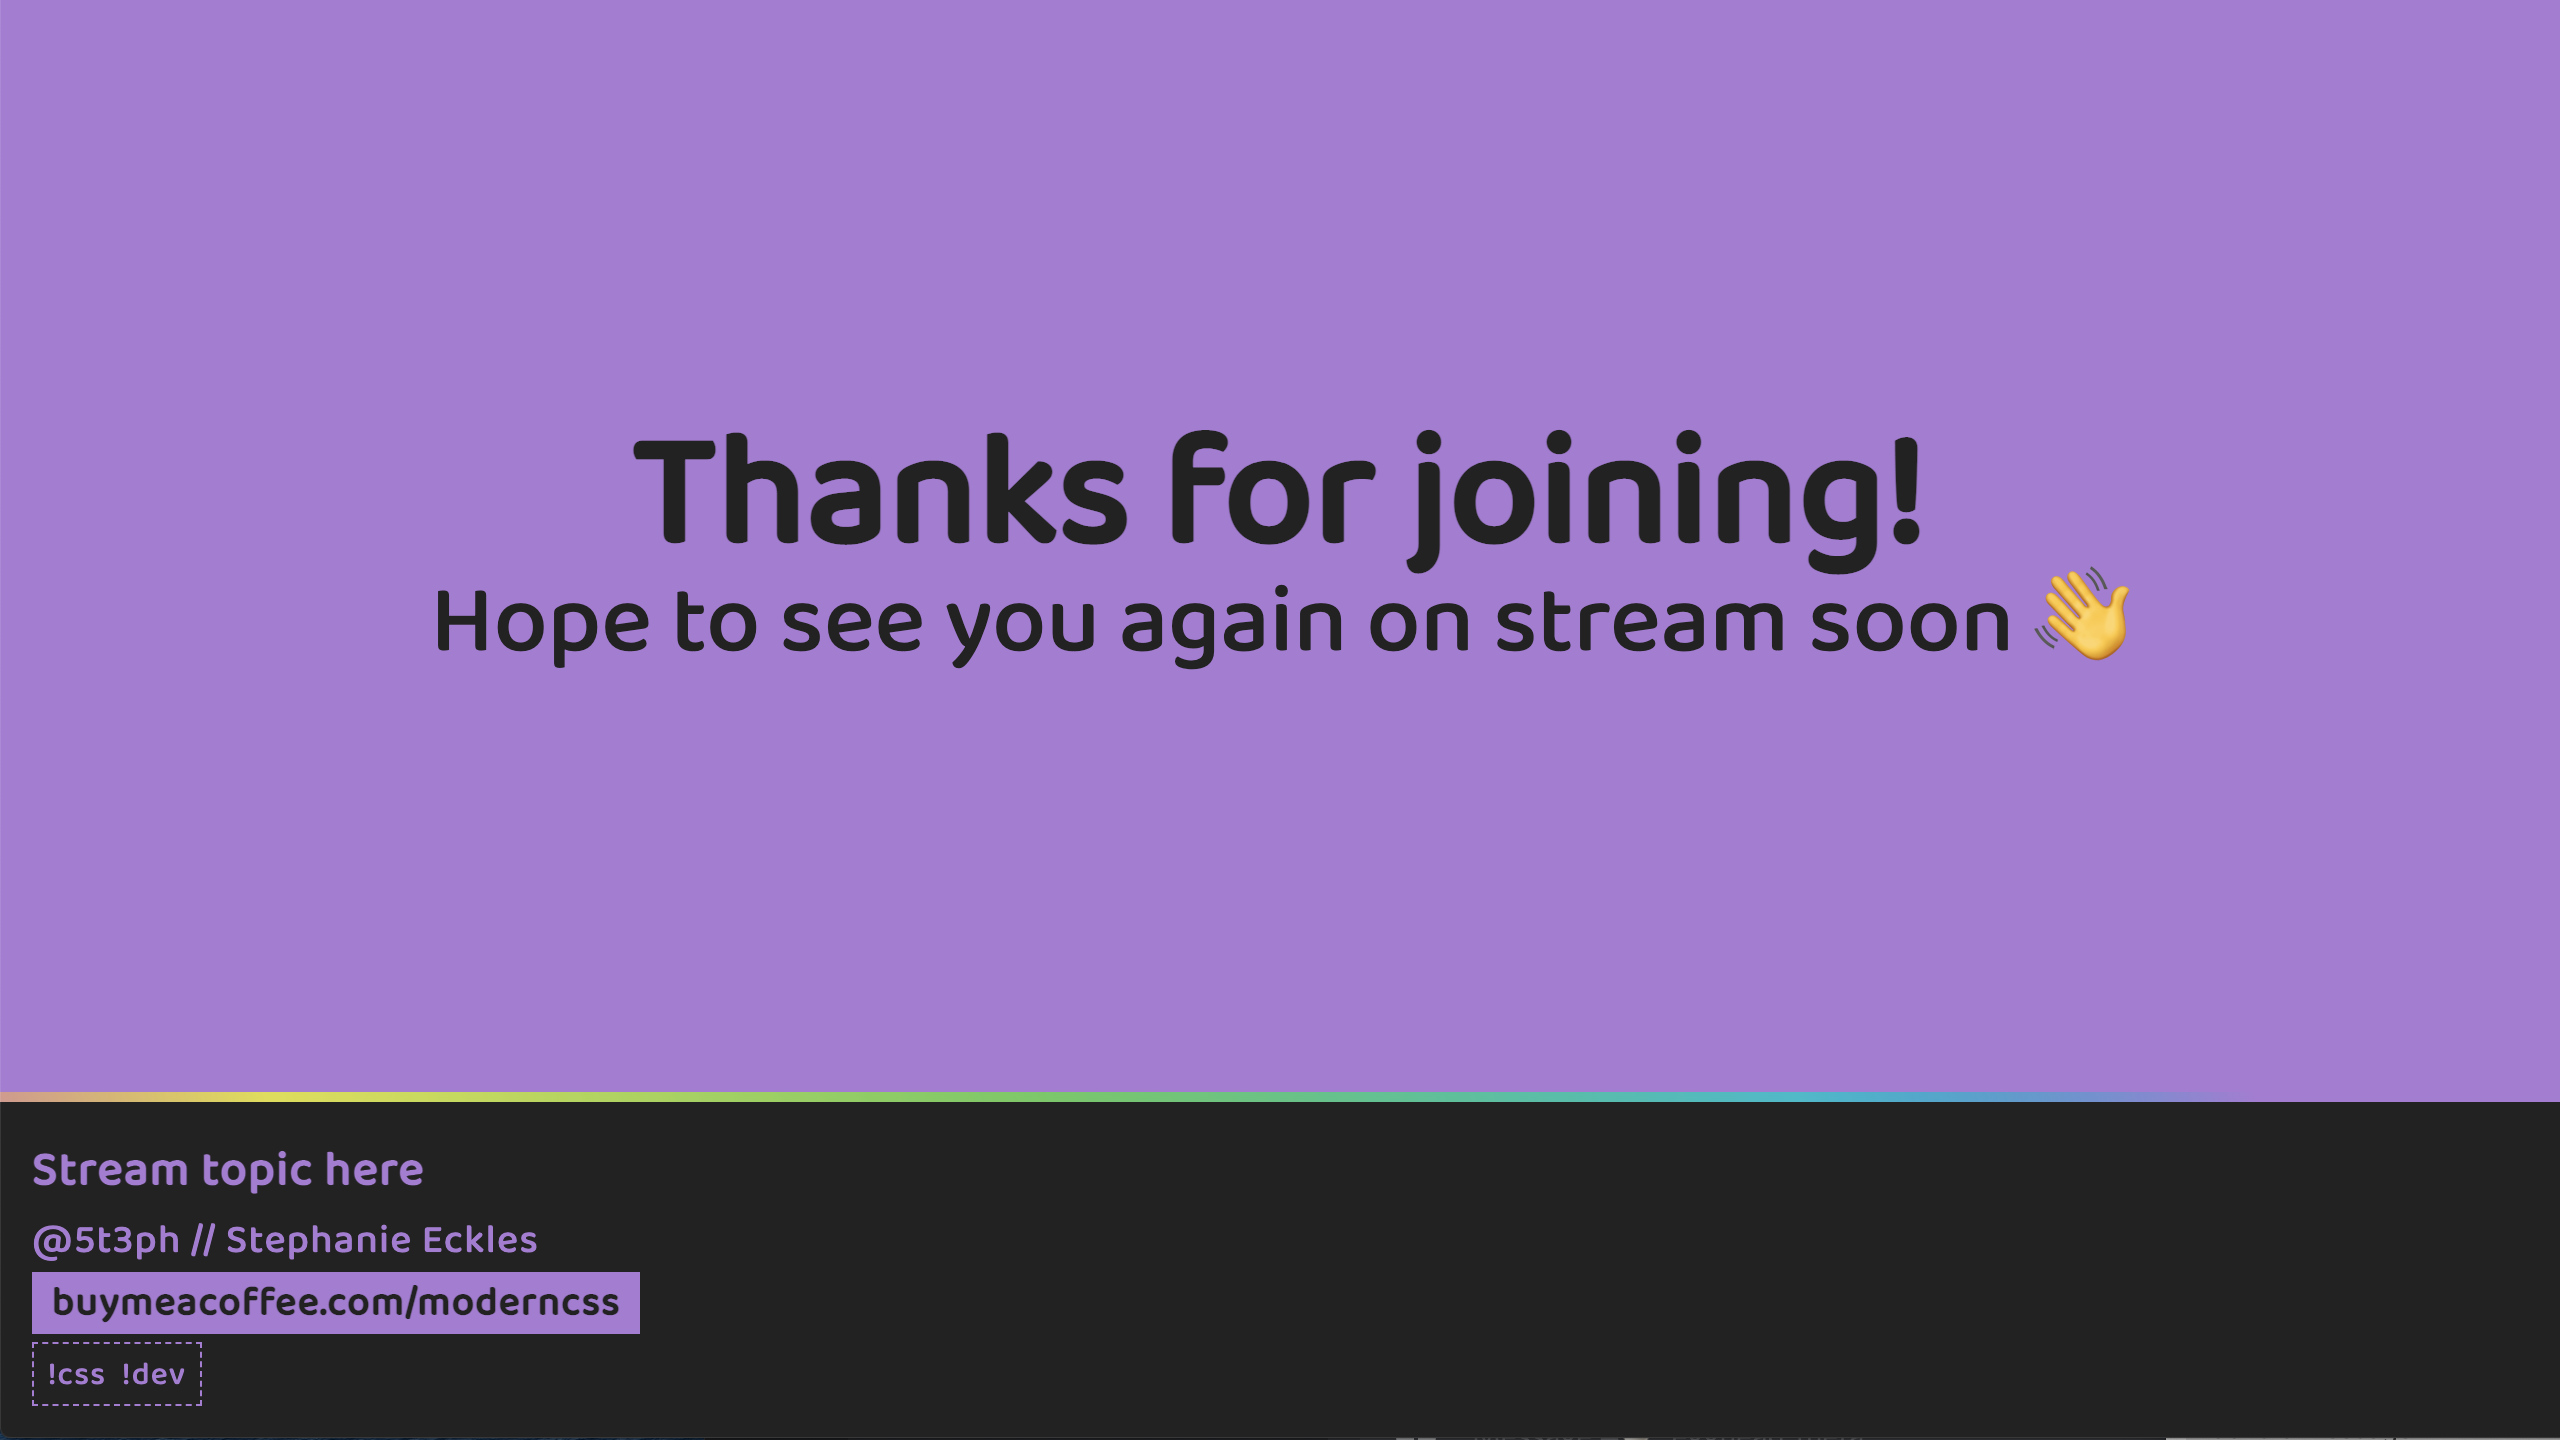
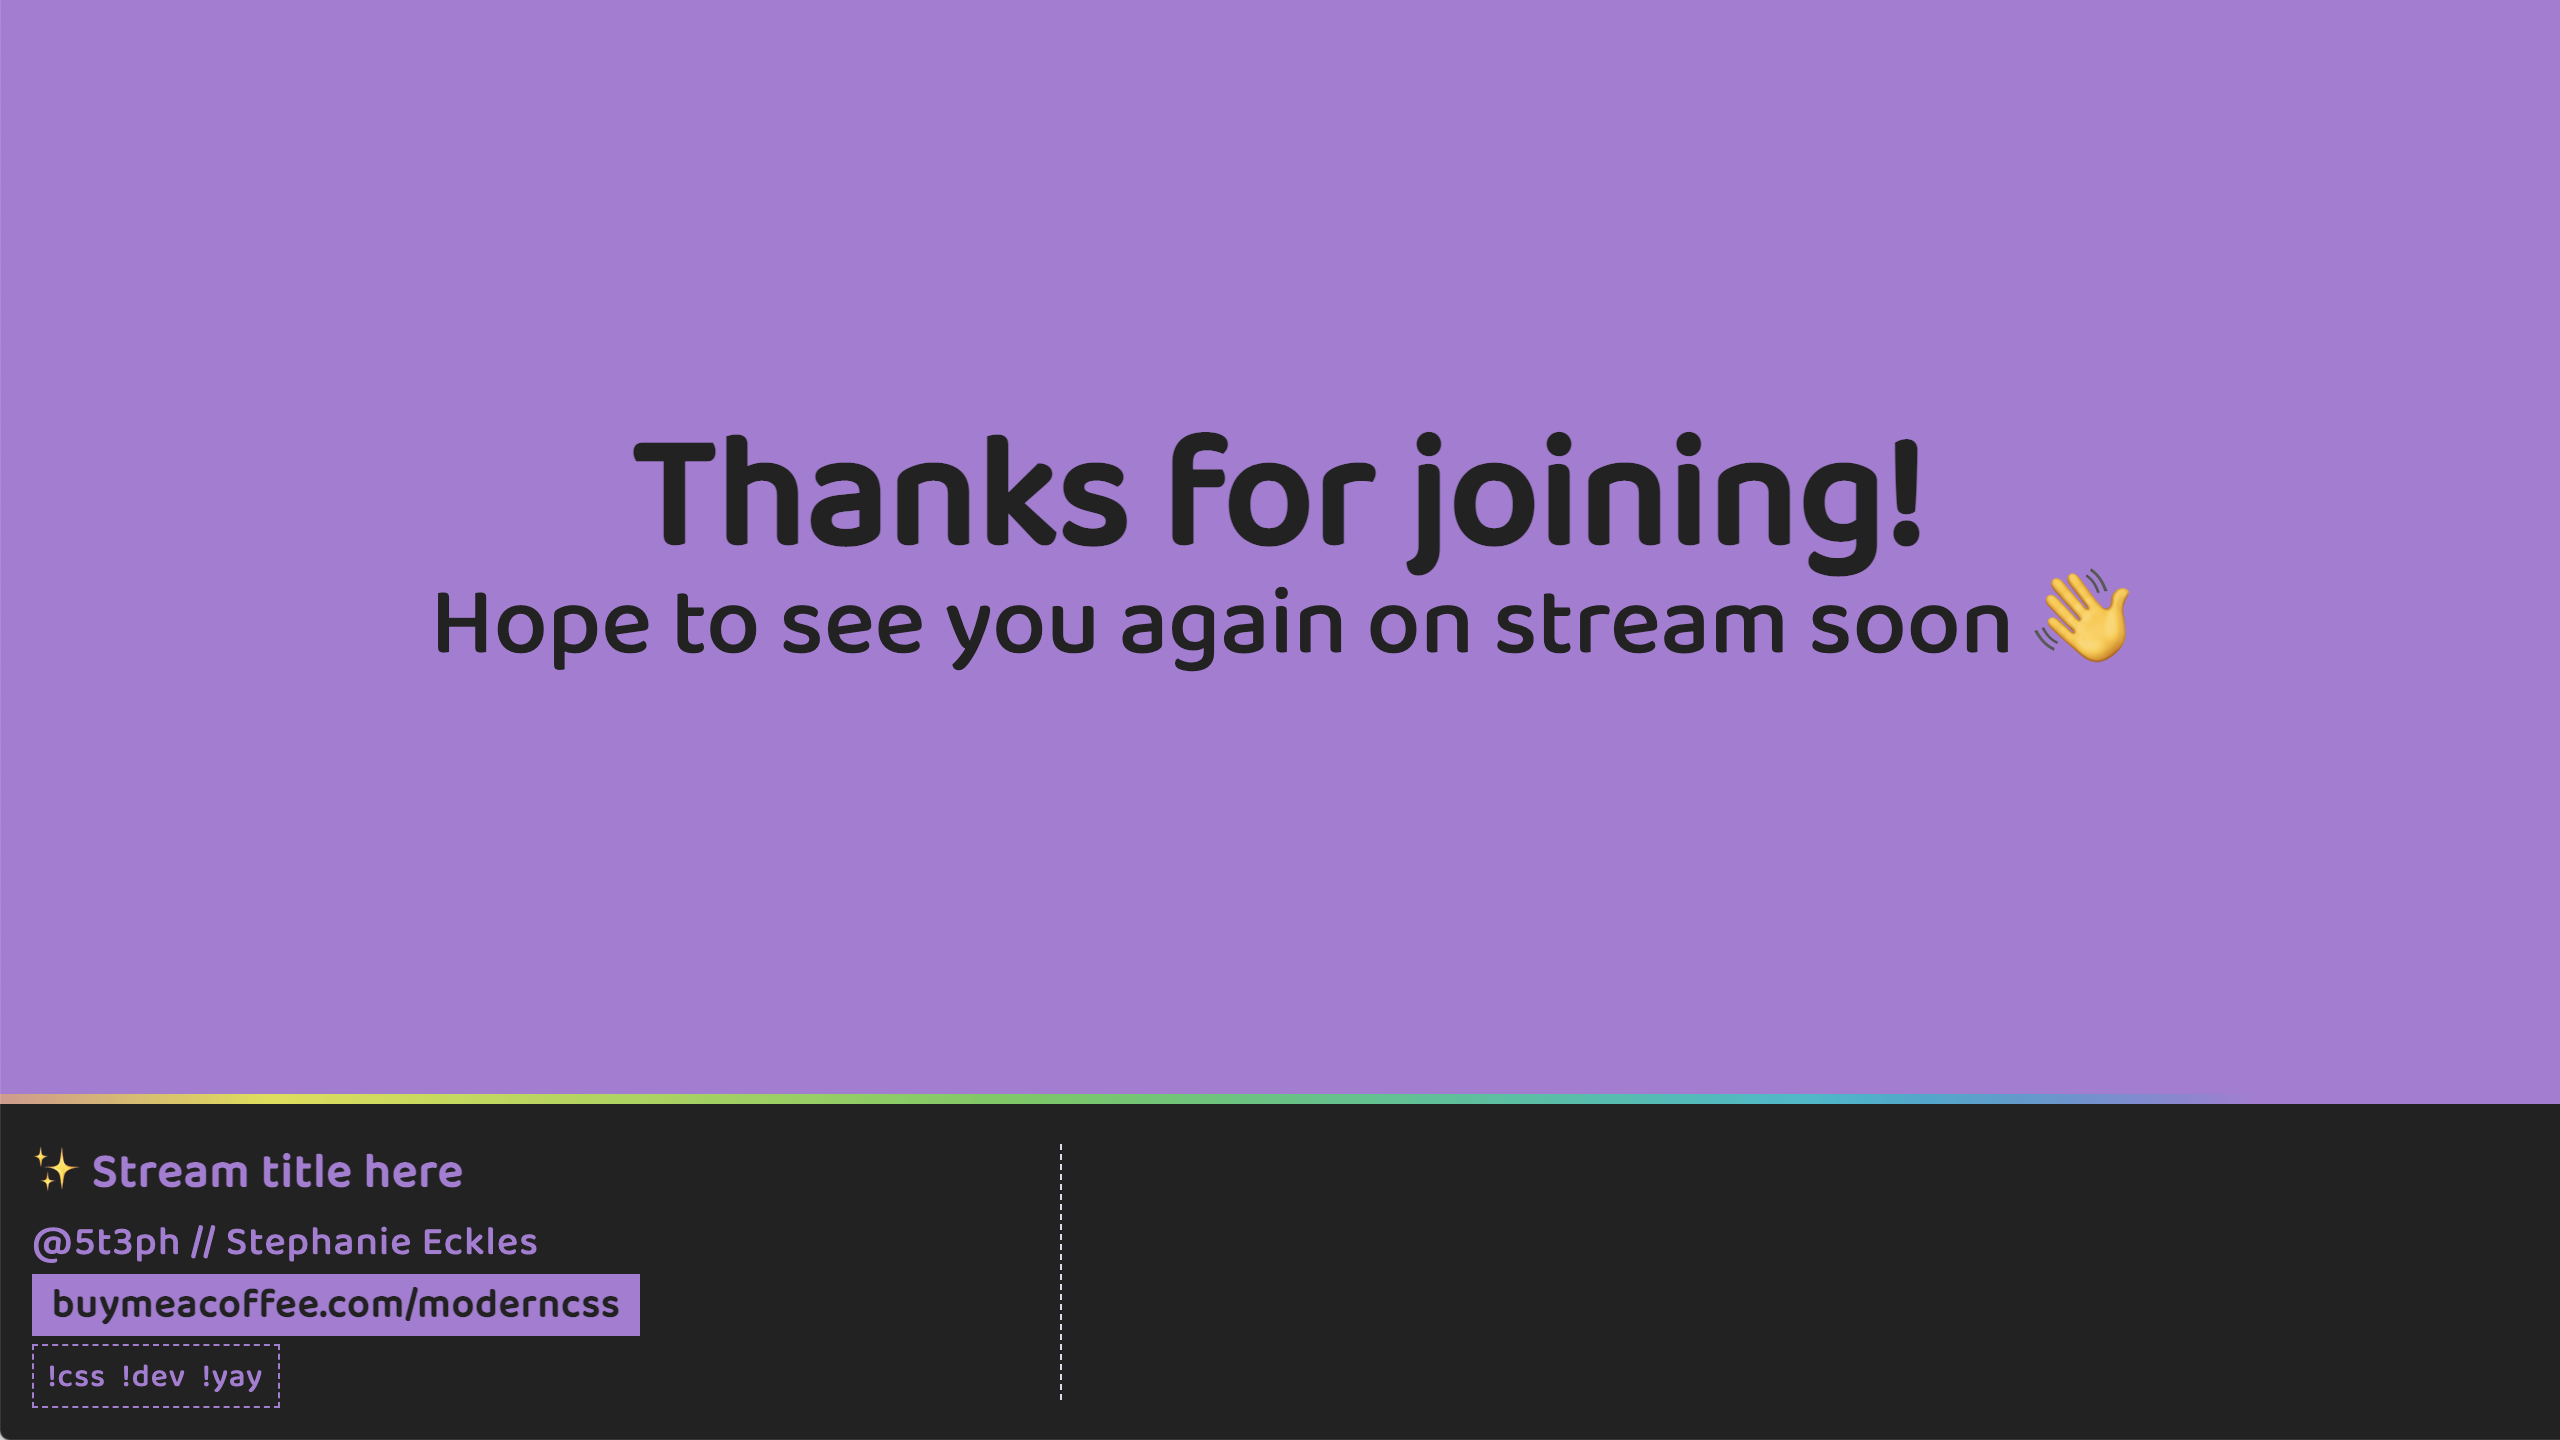
Scene improvements, embed chat ✨

diff --git a/src/sass/_layout.scss b/src/sass/_layout.scss
@@ -4,21 +4,26 @@
 }
 
 :root {
-  --color-primary: #ab79d6;
+  --color-primary: hsl(272, 53%, 66%);
   --color-surface: #222;
+  --color-alt: hsl(272, 53%, 90%);
 }
 
 body {
   font-family: "Baloo 2", sans-serif;
   font-weight: 500;
-  background-color: var(--color-surface);
+  // Better represent what transparent areas will appear as in OBS
+  background-color: #000;
   display: grid;
   grid-template-rows: 1fr auto;
   min-height: 100vh;
 }
 
 header {
-  min-height: 168px;
+  max-width: 100vw;
+  display: grid;
+  grid-template-columns: 45ch 1fr;
+  background-color: var(--color-surface);
   color: var(--color-primary);
   font-size: 1.25rem;
   letter-spacing: 0.03em;
@@ -35,8 +40,8 @@ header {
     1;
 
   .cta {
-    background-color: var(--color-primary);
     color: var(--color-surface);
+    background-color: var(--color-primary);
     padding-right: 0.5em;
     padding-left: 0.5em;
   }
@@ -65,4 +70,33 @@ header {
       padding: 0.15em 0.25em;
     }
   }
+}
+
+#chatbox {
+  position: relative;
+  overflow: hidden;
+  height: 128px;
+  margin-top: 20px;
+  width: 100%;
+  padding: 1rem;
+  font-size: 0.9rem;
+  color: var(--color-alt);
+  font-weight: normal;
+  font-family: system-ui, sans-serif;
+  line-height: 1.4;
+  border-left: 1px dashed;
+
+  strong {
+    color: var(--color-primary);
+  }
+}
+
+#chatter {
+  position: absolute;
+  left: 0;
+  right: 0;
+  bottom: 0;
+  display: grid;
+  gap: 0.5rem;
+  padding: 1rem;
 }

diff --git a/src/_includes/comfy/commands.js b/src/_includes/comfy/commands.js
@@ -1,4 +1,5 @@
 const main = document.querySelector("main");
+const chatter = document.getElementById("chatter");
 
 const activateCommandNode = (node) => {
   setTimeout(() => {
@@ -21,9 +22,22 @@ ComfyJS.onCommand = (_user, command, _message, _flags, _extra) => {
 };
 
 ComfyJS.onSub = () => {
-  const thanks = document.querySelector(`.sub-thanks`);
+  const thanks = document.querySelector(".sub-thanks");
 
   activateCommandNode(thanks);
+};
+
+ComfyJS.onChat = (user, message) => {
+  // Cheap encoding so any HTML in chat doesn't render as HTML
+  // Results in <p><strong>username</strong> the message here</p>
+  const incomingMsg = document.createTextNode(message);
+  const messageNode = document.createElement("p");
+  const userNode = document.createElement("strong");
+
+  userNode.innerText = `${user} `;
+  messageNode.appendChild(userNode);
+  messageNode.appendChild(incomingMsg);
+  chatter.appendChild(messageNode);
 };
 
 ComfyJS.Init(twitchUsername);

diff --git a/src/sass/_host.scss b/src/sass/_host.scss
@@ -1,7 +1,42 @@
 .scene-host {
+  display: grid;
+  grid-template-columns: 1fr 400px;
+}
+
+.host {
   background-image: radial-gradient(
     circle at center,
     transparent 50%,
-    var(--color-primary) 50%
+    var(--color-primary) 50.5%
   );
+}
+
+.ctas {
+  display: grid;
+  place-content: center;
+  background-color: var(--color-primary);
+  color: var(--color-surface);
+  padding: 5vh 5vw 0 0;
+  font-size: 1.25rem;
+
+  h2 {
+    font-size: 2rem;
+    margin-bottom: 0.5em;
+  }
+
+  h3 {
+    font-size: 1.5rem;
+  }
+
+  p + * {
+    margin-top: 0.75em;
+  }
+
+  .list-aligned {
+    display: flex;
+    gap: 0.5em;
+    list-style: none;
+    margin: 0;
+    padding: 0;
+  }
 }

diff --git a/src/_data/stream.js b/src/_data/stream.js
@@ -1,8 +1,10 @@
 module.exports = {
   twitchUsername: "5t3phDev",
-  title: "Stream topic here",
+  title: "✨ Stream title here",
   // accepts HTML
   description: "@5t3ph // Stephanie Eckles",
   cta: "buymeacoffee.com/moderncss",
-  chatCommands: ["css", "dev"],
+  chatCommands: ["css", "dev", "yay"],
+  preshowMessage:
+    "Welcome! 👋🏽 Where are you joining from? What are you hoping to learn?",
 };

diff --git a/src/sass/_primary.scss b/src/sass/_primary.scss
@@ -1,7 +1,13 @@
 .scene-primary {
-  background-image: linear-gradient(
-    to left,
-    var(--color-primary) 250px,
-    transparent 250px
-  );
+  display: grid;
+  grid-template-columns: 1fr 240px;
+
+  &::after {
+    content: "";
+    background-image: radial-gradient(
+      circle at center,
+      transparent 35%,
+      var(--color-primary) 35.5%
+    );
+  }
 }

diff --git a/src/sass/_fullscreens.scss b/src/sass/_fullscreens.scss
@@ -1,4 +1,6 @@
-.scene-postshow {
+.scene-postshow,
+.scene-preshow,
+.scene-break {
   display: grid;
   place-content: center;
   background-color: var(--color-primary);
@@ -13,9 +15,5 @@
 
   p {
     font-size: 3rem;
-  }
-
-  + header {
-    background: var(--color-surface);
   }
 }

diff --git a/src/sass/style.scss b/src/sass/style.scss
@@ -1,7 +1,6 @@
 @use "layout";
 @use "primary";
 @use "host";
-@use "preshow";
-@use "postshow";
+@use "fullscreens";
 @use "slideshow";
 @use "commands";

diff --git a/README.md b/README.md
@@ -4,17 +4,35 @@
 
 _If you're new to streaming (I was!) check out [this Learn With Jason episode](https://www.learnwithjason.dev/about-streaming) where Jason does Q&A about his stream setup._
 
+**Scenes are optimal at `1280x720`**, and are included for:
+
+- Preshow, postshow, and break messages
+- Main scene with large capture area and host webcam capture
+- bonus slideshow layout
+
+All scenes include the stream "header" details, which also features embedded chat.
+
+**[Check out the scene previews below](#scene-previews)** ⬇
+
 ## Initial Stream Setup
 
 Customize the stream meta data including allowed chat commands within `/src/_data/stream.js`.
 
 **Run `npm start` to launch the scenes** at `http://localhost:8090/` (or customize the port within the package `watch:eleventy` script).
 
+### Adding Captions
+
+Previously this starter included a captions capture area, but captions are now recommended to be fed in properly. These can be added when using [OBS](https://obsproject.com/download) (not Streamlabs) and the [OBS Captions Plugin](https://github.com/ratwithacompiler/OBS-captions-plugin).
+
 ## Scene Anatomy
 
 A scene specific class is generated as `scene-[fileslug]` on the `<main>` element.
 
-The `index` maps to the `primary` Sass file, the other `/scenes/` map to the Sass file matching the file slug. If you add a scene, you will need to add a CSS style to it's new class to apply styles to `<main>` unless you want the entire area to be a capture area.
+- The `index` maps to the `primary` Sass file
+- `postshow`, `preshow`, and `break` use the `fullscreens` Sass
+- the remaining `/scenes/` map to the Sass file matching the file slug
+
+If you add a scene, you will need to add a CSS style to it's new class to apply styles to `<main>` unless you want the entire area to be a capture area.
 
 The `preshow` layout is an example of passing content to be included within `<main>`.
 
@@ -32,11 +50,11 @@ Not an official scene, but a template you can use if you want to create a simple
 
 Uses the [CSS feature of scroll snapping](https://smolcss.dev/#smol-scroll-snap) to create a full-screen slideshow.
 
-To use, visit `http://localhost:8090/slideshow` and use horizontal scrolling. You will need to use display capture instead of browser capture so that you can manipulate the screen.
+To use, visit `http://localhost:8090/slideshow` and use horizontal scrolling. You will need to use display capture instead of browser capture so that you can manipulate the screen, or use interactive mode if using OBS (not Streamlabs).
 
 ### Capture Areas
 
-In the `primary` scene, the main stream capture area is approximately 1030x550 when streaming at 1280x720 (and if your text content doesn't increase the height of the header area).
+In the `primary` scene, the main stream capture area is approximately 1040x550 when streaming at 1280x720 (and if your text content doesn't increase the height of the header area).
 
 In the `host` scene, the center of the radial gradient is the capture area.
 
@@ -46,7 +64,7 @@ For both of those scenes, there is an additional area intended for captions next
 
 ## Command Reponses
 
-Scripts and styles are included to handle chat commands and new subscriptions. These are received with the help of [ComfyJS](https://github.com/instafluff/ComfyJS).
+Scripts and styles are included to handle showing chat, and responding to chat commands and new subscriptions. These are received with the help of [ComfyJS](https://github.com/instafluff/ComfyJS).
 
 You must provide your `twitchUsername` within `/src/_data/stream.js` and at least one `chatCommand` for this to work.
 
@@ -61,13 +79,15 @@ If you keep the provided style, it's best to keep command words under 5 characte
 
 > Catch the last scene preview to see how the scene would look if chat mobbed the available commands
 
-#### Test Chat Commands
+### Test Chat Commands
 
 Visit `https://www.twitch.tv/popout/[TWITCH USERNAME]/chat?popout=` and enter your chat command - example: `!css` - to test the display.
 
 ### Edit Chat Commands
 
 If you want to enable chat commands, add those within the `stream.js`. Each command will be automatically listed below the CTA in the `header`.
+
+> Fun tip: you can edit these during your stream to add/remove commands live! Perhaps an incentive for chat participation.
 
 ### New Subscription "Thanks!"
 
@@ -76,16 +96,25 @@ In the same style of the commands but larger, a `THANKS!` message will zoom in w
 ## Scene Previews
 
 **preshow**
+
+Customize the message that appears as default in the chat area by updating the `preshowMessage` in the stream data file.
+
 ![preshow](scene-previews/preshow.png)
 
 **primary**
 ![preshow](scene-previews/primary.png)
 
 **host**
+
+Edit the text directly within the scene. To show only a centered host capture area, remove the `ctas` div in the scene, and remove the `grid-template-areas` within `_host.scss`.
+
 ![preshow](scene-previews/host.png)
 
 **postshow**
 ![preshow](scene-previews/postshow.png)
+
+**break**
+![break](scene-previews/break.png)
 
 **new subscription reaction**
 ![new sub thanks](scene-previews/sub-thanks.png)

diff --git a/src/scenes/break.md b/src/scenes/break.md
@@ -1,0 +1,5 @@
+---
+title: Break
+---
+
+## Taking a quick break - BRB! ⏱
